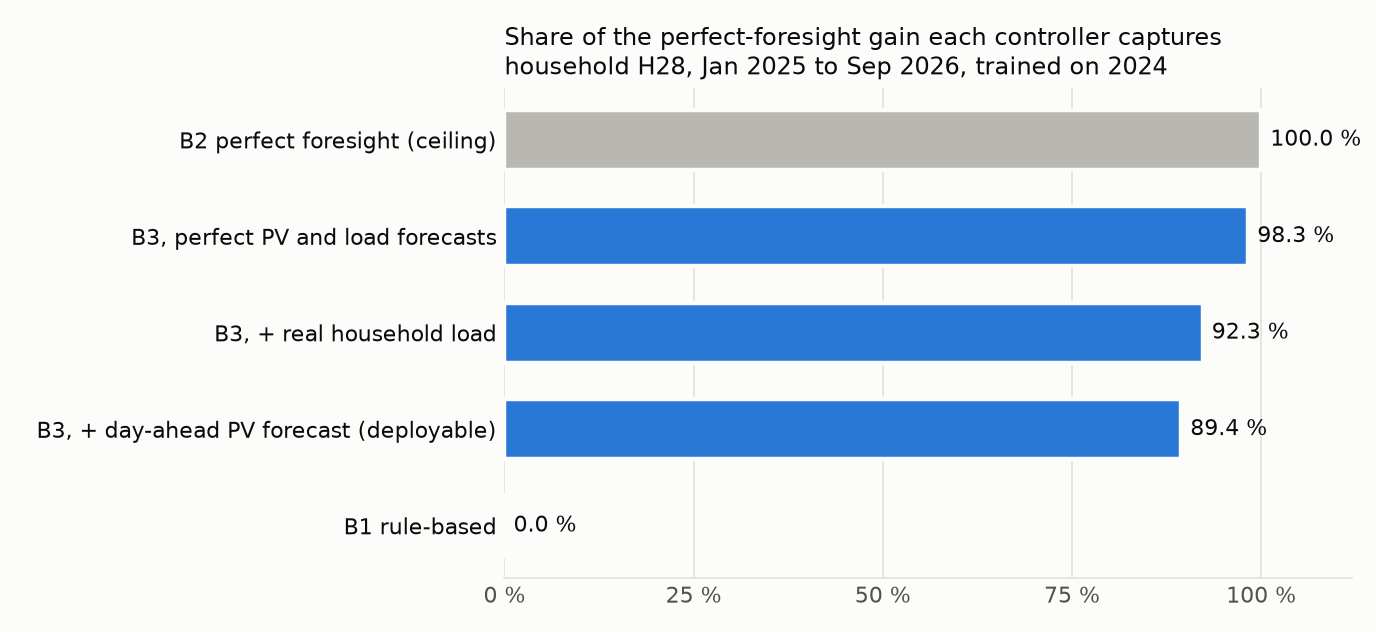
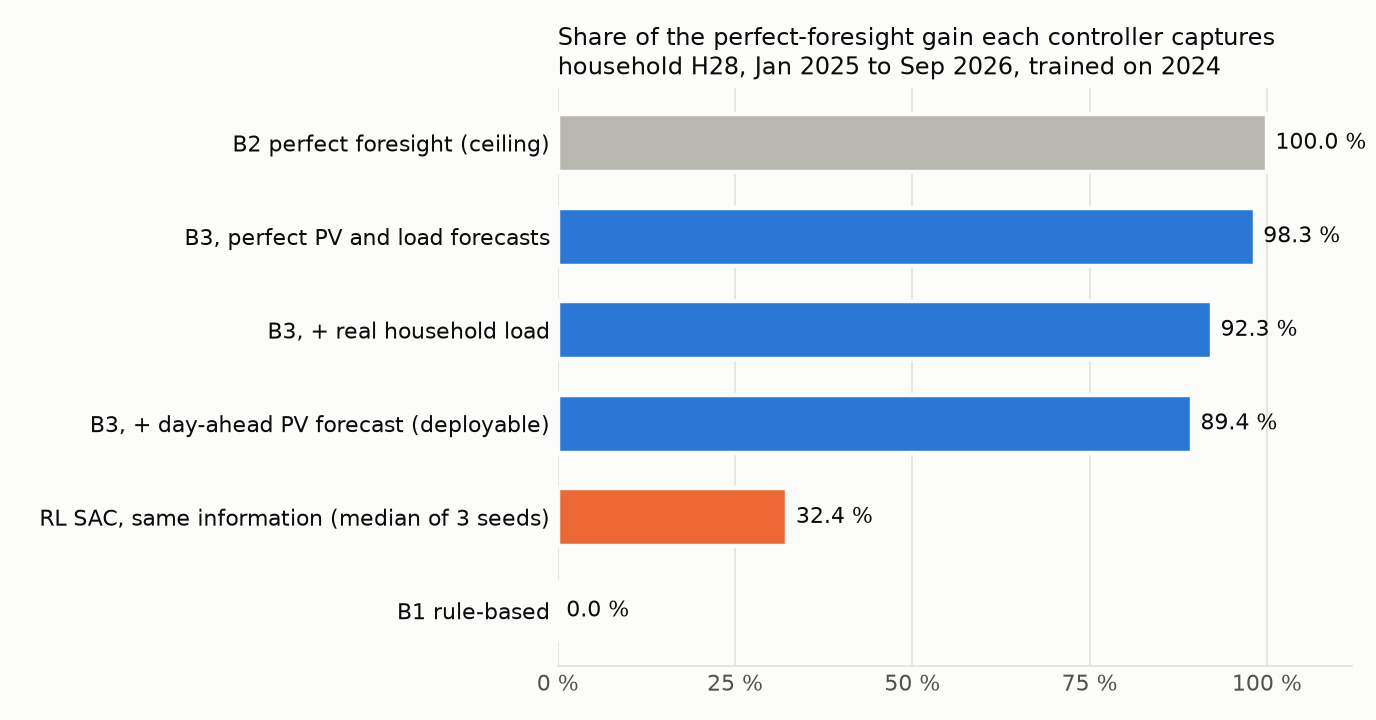
docs(p01): publish the post-fix RL rerun of all four SAC formulations
The RL section was the last part of the benchmark still measured on the
pre-clock-fix replay, so the table compared RL against a B3 from a
different dataset. All four formulations were retrained on the fixed H28
data with the runbook driver (500k steps, 3 seeds each), after the
data gate reproduced the committed B1/B2/B3 exactly.

Headline (rescale + differential) median 32.4 % of the B1 to B2 gap,
seeds 31.7 to 32.4 (pre-fix 27.0 %). Original -7.3 %, rescaling only
-3.4 %, reward only +27.0 %. One pre-fix seed already reached 32.3 %,
so the README does not credit the change to the fix.

The ablations had one seed before; with three, rescaling alone no
longer looks harmful (ranges overlap), so that claim and its
explanation are replaced. The reward effect is about 34 points and
rescaling adds about 5 on top. Benchmark row, payback and ROCE now use
the post-fix PV-only baseline. Only capture_ladder.png is regenerated.
Household sweep and sizing grid stay marked pre-fix.

diff --git a/projects/01-prosumer-pv-bess-mpc-rl/README.md b/projects/01-prosumer-pv-bess-mpc-rl/README.md
@@ -65,10 +65,9 @@ Full benchmark ladder evaluated on household H28 (3,221 kWh/a, 8 kWp PV, 9.37 kW
 | **B1** | Rule-based self-consumption | -324.98 € | -189.80 € | 0.0 % (B1 ref) | 168.9 | 0 | < 1 ms | 17.9 yr | 5.6 % |
 | **B2** | Perfect foresight MILP | -716.68 € | -418.57 € | 100.0 % | 298.2 | 0 | 4.2 s (yr) | 9.2 yr | 10.8 % |
 | **B3** | Deployable rolling MPC (realistic) | -675.27 € | -394.38 € | **89.4 %** | 287.5 | 0 | 5.9 ms ¹ | **9.7 yr** | **10.3 %** |
-| **RL** | Overhauled SAC (rescaled action, diff reward), **before the clock fix** ² | -426.38 € | -249.02 € | **27.0 %** | 264.6 | 0 | 1.2 ms | **14.0 yr** | **7.1 %** |
+| **RL** | Overhauled SAC (rescaled action, diff reward), median of 3 seeds | -451.82 € | -263.88 € | **32.4 %** | 267.8 | 0 | 1.2 ms | **13.7 yr** | **7.3 %** |
 
 ¹ Solve time measured on an idle machine before the clock fix; the rerun CSV shows 19.5 ms because eight jobs shared four cores. The fix does not touch the controller.
-² RL has not been rerun since the HTW clock fix (see the RL section); its row, payback and ROCE are pre-fix, against the pre-fix PV-only baseline of +61.13 EUR/a. Its annual cycles use the same annualisation as the other rows (264.6; 275.4 was printed before).
 
 - **B3 Headroom Recovery:** The deployable rolling MPC captures **89.4 %** of the theoretical perfect-foresight ceiling (350 of 392 EUR headroom over B1) using only published prices, NWP irradiance forecasts, and standard load profiles. Zero constraint violations across all 59,996 quarter-hours.
 - **Economic Return:** Adding a battery under B3 dispatch turns an annual electricity expense of +52.89 EUR/a (PV only) into a net revenue of -394.38 EUR/a, an annual gain of **447.27 EUR/a**. Against the marginal CAPEX of 4,349 EUR (350 EUR/kWh storage plus 190 EUR/kW inverter) that is a **9.7-year simple payback** and **10.3 % return on capital**, against 17.9 years and 5.6 % for the price-blind rule-based operation. Perfect foresight would reach 9.2 years and 10.8 %, so the entire remaining control gap is worth about half a point of return.
@@ -144,14 +143,12 @@ mismatch between PV and load inside the hour, and understates the optimised resu
 
 ### Reinforcement learning: formulation overhaul and diagnostic
 
-> **Before the HTW clock fix, not rerun.** Every RL number in this section was measured with the pre-fix replay (the household's summer load one hour late). Compare it with the pre-fix B3 capture of 87.9 %, not with the 89.4 % above. A rerun of all four formulations is pending.
+The preliminary RL benchmark (Soft Actor-Critic trained on 2024 data and tested over the 20.5-month out-of-sample period) captured a median of -7.3 % of the B1 to B2 gap (-12.7 % to +2.0 % across 3 seeds). A systematic failure mode audit revealed two architectural bottlenecks in standard home energy management RL formulations:
 
-The preliminary RL benchmark (Soft Actor-Critic trained on 2024 data and tested over the 20.5-month out-of-sample period) captured a median of -5.9 % of the B1 to B2 gap (-7.1 % to -1.8 % across 3 seeds). A systematic failure mode audit revealed two architectural bottlenecks in standard home energy management RL formulations:
-
-1. **Dead Gradient from Action Clipping (73 to 80 % clipping rate):** In raw action formulations where the policy outputs a normalized battery power setpoint $a \in [-1, 1]$ scaled to $[-P_{max}, P_{max}]$, the physical state of charge and grid limits frequently prevent the requested action. The safety layer clipped 73 to 80 % of actions. When actions are clipped by an external projection, policy gradient updates produce zero or misdirected gradient steps. This was the obvious suspect; the ablation below shows it was the lesser of the two problems, and that removing the clipping without fixing the reward makes the result worse.
+1. **Dead Gradient from Action Clipping (77 to 82 % clipping rate):** In raw action formulations where the policy outputs a normalized battery power setpoint $a \in [-1, 1]$ scaled to $[-P_{max}, P_{max}]$, the physical state of charge and grid limits frequently prevent the requested action. The safety layer clipped 77 to 82 % of actions. When actions are clipped by an external projection, policy gradient updates produce zero or misdirected gradient steps. This was the obvious suspect; the ablation below shows it was the lesser of the two problems, and that removing the clipping without fixing the reward makes no reliable difference.
 2. **Uncontrollable term in the step reward:** The raw reward was the total step electricity cost:
    $$r_t = - \left( c_{imp}(t) \cdot p_{imp}(t) - c_{exp}(t) \cdot p_{exp}(t) \right) \Delta t$$
-   Most of that cost is set by household load and irradiance, which the battery cannot influence. Measured on the test period, the no-battery step cost has a standard deviation of 4.5 ct while the battery's own contribution under B1 dispatch has 2.9 ct, so the uncontrollable part adds noise of roughly one and a half times the signal the agent is trying to learn from. It does not swamp the signal, but it does make credit assignment harder than it needs to be.
+   Most of that cost is set by household load and irradiance, which the battery cannot influence. Measured on the test period, the no-battery step cost has a standard deviation of 4.4 ct while the battery's own contribution under B1 dispatch has 2.9 ct, so the uncontrollable part adds noise of roughly one and a half times the signal the agent is trying to learn from. It does not swamp the signal, but it does make credit assignment harder than it needs to be.
 
 #### Implemented Solutions
 
@@ -162,7 +159,7 @@ To resolve these defects, two principled formulations were engineered and integr
   $$P_{max, feasible}(t) = \min\left( P_{dis, max}, \frac{(E(t) - E_{min})\eta_{dis}}{\Delta t} \right)$$
   The agent's action $a \in [-1, 1]$ is linearly mapped onto this feasible interval:
   $$p_{bat} = \frac{a + 1}{2} P_{max, feasible} + \frac{1 - a}{2} P_{min, feasible}$$
-  This guarantees that every proposed action is physically executable, reducing action clipping from 80 % to **0 %**.
+  This guarantees that every proposed action is physically executable, reducing action clipping from 77 to 82 % down to **0 %**.
 - **Differential Step Reward (`reward_mode="differential"`):** The reward function is reformulated to isolate the marginal economic value of battery dispatch:
   $$r_t = \text{Cost}_{no-battery}(t) - \text{Cost}_{with-battery}(t)$$
   By subtracting the uncontrollable base load and PV revenue, the policy observes an uncorrupted reward signal directly proportional to its arbitrage and peak-shaving decisions.
@@ -171,30 +168,33 @@ To resolve these defects, two principled formulations were engineered and integr
 
 With these two fixes applied, a 3-seed SAC evaluation was trained on 2024 and tested over the 20.5-month out-of-sample evaluation period (59,996 quarter-hours):
 
-- **Headroom Recovery:** Headroom recovery swung from **-5.9 %** to **+27.0 %** (range 26.2 % to 32.3 % across seeds), capturing an additional 105 EUR of economic value over the price-blind B1 heuristic.
-- **Action Clipping:** Safety layer action clipping dropped from **73-80 % down to exactly 0.0 %** across all seeds.
+- **Headroom Recovery:** Headroom recovery swung from **-7.3 %** to **+32.4 %** (range 31.7 % to 32.4 % across seeds), capturing an additional 127 EUR of economic value over the price-blind B1 heuristic. Before the HTW clock fix the same formulation reached 27.0 % (26.2 % to 32.3 %); one of those seeds already reached today's level, so with three seeds the change cannot be credited to the fix.
+- **Action Clipping:** Safety layer action clipping dropped from **77-82 % down to exactly 0.0 %** across all seeds.
 - **Physical Reliability:** Zero constraint violations across all 180,000 evaluated quarter-hours, verifying the safety layer guarantees.
 
 #### Which of the two changes did the work
 
-Both were introduced together, so each was rerun on its own for one seed
+Both were introduced together, so each was rerun on its own with the same three seeds
 (`reports/rl_ablation_*`). The answer is not the one the clipping statistic suggests:
 
-| Formulation | Clipping | Capture of the B1 to B2 gap |
+| Formulation | Clipping | Capture of the B1 to B2 gap, median (range) of 3 seeds |
 |---|---:|---:|
-| Original: clipped action, total-cost reward | 73 to 80 % | -5.9 % |
-| Feasible action rescaling only | 0 % | **-9.9 %** |
-| Differential reward only | 68 % | **+22.7 %** |
-| Both (reported above) | 0 % | **+27.0 %** |
+| Original: clipped action, total-cost reward | 77 to 82 % | -7.3 % (-12.7 to +2.0) |
+| Feasible action rescaling only | 0 % | **-3.4 %** (-4.7 to +0.7) |
+| Differential reward only | 67 to 71 % | **+27.0 %** (26.4 to 29.9) |
+| Both (reported above) | 0 % | **+32.4 %** (31.7 to 32.4) |
 
 The **reward** is what fixes the agent. Removing the uncontrollable part of the cost is worth
-about 29 points on its own, while action rescaling on its own is slightly harmful: with the
-old reward, a policy whose every request is executed simply acts on a signal it cannot read,
-and the clipping that looked like a defect was partly masking that. Rescaling does pay once
-the reward is informative, adding roughly 4 further points. Reporting clipping alone, as an
-intuitive diagnostic, would have pointed at the wrong fix.
+about 34 points on its own, while action rescaling on its own makes no reliable difference:
+its median is 3.9 points above the original, but the seed ranges overlap and the best seed
+of either captures only 2.0 % of the gap. Rescaling does pay once the
+reward is informative, adding about 5 further points; every seed with both changes beats
+every seed with the reward change alone. Reporting clipping alone, as an intuitive
+diagnostic, would have pointed at the wrong fix. Before the clock fix each ablation had one
+seed, and rescaling alone looked slightly harmful (-9.9 % against -5.9 %); three seeds show
+that difference was within the spread between seeds.
 
-Even so, RL remains far behind the deployable MPC (27 % against 87.9 %), and the honest
+Even so, RL remains far behind the deployable MPC (32 % against 89.4 %), and the honest
 reading is that this formulation is now a sound starting point rather than a competitive
 controller.
 
@@ -281,7 +281,7 @@ What it does not claim: it is not validated for any state or year (the only trut
 
 - The actual weather and the forecast come from the same provider's model family, so the PV forecast problem is slightly easier than against measurements (irradiance nRMSE 0.27 against its own analysis, 0.31 against independent ERA5).
 - The measured households are from 2010 (no heat pumps or electric vehicles) and from one unknown region; they are replayed on the 2024 to 2026 calendar by weekday and local clock.
-- **Fixed 2026-10-26 (c07847e):** `htw.replay_on_calendar` read the HTW labels as MEZ, but they follow legal local time (see the aggregate load section), so every result that uses an HTW household as truth replayed its summer behaviour one hour late against PV and prices. Rerun with the fix: the benchmark table (B0 to B3), the capture ladder and its figure, H31, the quarter-hour study and its figure, the summer example day and its figure, and the load-forecast nRMSE. With the old code the rebuilt dataset reproduced every published number to four decimals, so each change comes from the fix alone (B3 capture 87.9 % to 89.4 %). Still pre-fix and marked as such: the 73-household sweep and its figure, the sizing grid and the RL results.
+- **Fixed 2026-10-26 (c07847e):** `htw.replay_on_calendar` read the HTW labels as MEZ, but they follow legal local time (see the aggregate load section), so every result that uses an HTW household as truth replayed its summer behaviour one hour late against PV and prices. Rerun with the fix: the benchmark table (B0 to B3), the capture ladder and its figure, H31, the quarter-hour study and its figure, the summer example day and its figure, and the load-forecast nRMSE. With the old code the rebuilt dataset reproduced every published number to four decimals, so each change comes from the fix alone (B3 capture 87.9 % to 89.4 %). All four RL formulations were retrained on the fixed data (3 seeds each); retrained policies also vary from seed to seed, so the RL changes are not attributed to the fix alone. Still pre-fix and marked as such: the 73-household sweep and its figure and the sizing grid.
 - The hourly counterfactual uses the hourly mean of the quarter-hour prices; bidding under hourly products would have differed, so the study measures the value of the finer signal, not a market counterfactual.
 - 2026 ends on 17 September.
 

diff --git a/HANDOFF.md b/HANDOFF.md
@@ -464,6 +464,55 @@ All in `projects/01-prosumer-pv-bess-mpc-rl/README.md`:
   73-household sweep. Honest, but not current.
 - Suite at the time of writing: 294 passed, 7 skipped.
 
+## RL rerun done and published (2026-10-30, Claude Code on EIM-MUK)
+
+The runbook above was followed on EIM-MUK in a clean worktree at 69bc045 (the shared tree there
+still holds the Teaching session's uncommitted solver edits, which `rl_eval` imports).
+
+- **Gate:** passed exactly (B1 -324.9827, B2 -716.6751, B3 -675.2715 EUR, 89.4296 %, max
+  difference 0.0). Idle solve time on EIM-MUK 12.3 ms; the README keeps 5.9 ms with its footnote.
+- **Run:** 2026-10-29 11:43 to 2026-10-30 13:35, 25.9 h, no failure; 500,000 steps, 3 seeds,
+  3 workers per formulation, torch 2.14.1 CPU; 370 to 400 min per formulation (the personal
+  laptop needs about a quarter of that). Order: headline first, so an interrupted run kept it.
+- **Published** into the four `reports/` folders of the runbook table (`rl_ablation_clip_net_cost`
+  is new) and `docs/figures/capture_ladder.png` regenerated with its RL bar (only that figure;
+  `make_all` would also rewrite the unchanged sweep and quarter-hour PNGs). Trained models stay
+  gitignored on EIM-MUK under `data/processed/rl_models_rerun/`.
+
+| Formulation | Pre-fix | Post-fix, median of 3 | Seeds | Clipping |
+|---|---:|---:|---|---:|
+| clip + net_cost (original) | -5.9 % (3 seeds) | -7.3 % | +2.0, -12.7, -7.3 | 77 to 82 % |
+| rescale + net_cost | -9.9 % (1 seed) | -3.4 % | +0.7, -4.7, -3.4 | 0 % |
+| clip + differential | +22.7 % (1 seed) | +27.0 % | 26.4, 27.0, 29.9 | 67 to 71 % |
+| rescale + differential (headline) | +27.0 % | **+32.4 %** | 31.7, 32.4, 32.4 | 0 % |
+
+- Benchmark row (median seed 1): -451.82 EUR, -263.88 EUR/a, 267.8 cycles/a, payback 13.7 yr,
+  ROCE 7.3 % against B0 +52.89 EUR/a. 0 violations in all 12 runs (179,988 quarter-hours per
+  formulation). RL is 127 EUR better than B1 over the 20.5 months.
+- **Claim corrected:** the README said action rescaling alone was "slightly harmful" (-9.9 against
+  -5.9, one seed against three). With three seeds each the ranges overlap; it now says rescaling
+  alone makes no reliable difference, and the "clipping was masking it" explanation is gone. The
+  reward effect is about 34 points (was 29), rescaling on top about 5 (was 4), and every
+  both-changes seed beats every reward-only seed.
+- **Not credited to the fix:** the headline moved 27.0 to 32.4 %, but one pre-fix seed already
+  reached 32.3 %; the README says so.
+- The reward-noise sentence recomputed on the fixed data: no-battery step cost std 4.45 ct
+  (pre-fix 4.49, which reproduced the old 4.5), battery part under B1 2.86 ct.
+- The number script used for every RL figure in the README is `rl_readme_numbers.py`
+  (EIM-MUK, `projects/01-*/data/claude_session_2026-10-26/scripts/`, gitignored); it reproduced
+  every pre-fix RL number from the old CSVs before it was run on the new ones.
+
+### Still to do, on the personal laptop
+1. Household sweep: delete `reports/household_sweep.csv` first (it appends), then
+   `python -m prosumer.cli household-sweep --workers <cores>` from the P01 folder with
+   `PYTHONPATH=src`; then `python -c "import matplotlib; matplotlib.use('Agg'); from pathlib import Path; from prosumer.reporting.figures import household_sweep; household_sweep(Path('reports'), Path('docs/figures'))"`.
+2. Sizing grid: `python -m prosumer.cli sizing --workers <cores>` (needs the H28 dataset of
+   the runbook's step 1).
+3. README: the household-sweep paragraph and the sizing section, both marked "Before the clock
+   fix", plus the limitations bullet; remove the markers; check the numbers against the CSVs.
+4. Owner decision: `showcase.html` still quotes RL 27.0 % (lines 1439, 1499 to 1500, 1552,
+   3032, 3039) and the old ladder (56 %, line 2866).
+
 ## ▶ Next Concrete Actions (in order)
 
 1. **Projects 04 and 06 Ergonomics:** Review and refine documentation, docstrings, and CLI arguments for Project 04 (Renewable Energy Community) and Project 06 (Probabilistic Forecast-to-Bid).
@@ -550,3 +599,4 @@ reaches a figure, a README or the showcase unless it traces to a committed CSV.
 - 2026-10-27 · Claude Code · EIM-MUK: HTW clock fixed in c07847e (replay on the households' own clock; regression tests fail on the old code). Rebuilt dataset reproduced the published numbers exactly with the old code; with the fix H28 B3 capture is 89.43 % (was 87.91), H31 86.10 %. Remaining reruns (sweep, sizing, RL, figures) running on EIM-MUK. README battery configuration corrected to 9.37 kWh / 5.63 kW. Handoff for the personal laptop written above; pushed to GitHub on Murat's request.
 - 2026-10-27 · Claude Code · EIM-MUK: rerun stopped on request after ten hours. Committed locally (not pushed): post-fix H28, H31 and quarter-hour results, three regenerated figures, README numbers (B3 89.4 %, B0 +52.89 EUR/a); household sweep, sizing and RL marked pre-fix with the steps to finish them in the status block above.
 - 2026-10-29 · Claude Code · Fehlgeschlagenen Test behoben: nicht der Test war falsch, sondern der Loader. pandas schreibt die kürzeste exakte float64-Darstellung, liest sie aber mit einem ungenauen Parser zurück (14.399999999999995 wurde 14.399999999999997); float_precision="round_trip" in load_model und load_state_normals. 294 passed, 7 skipped. Danach die RL-Wiederholung vorbereitet: H28-Datensatz neu gebaut und das Gate bestanden (B1 -324,9827 / B2 -716,6751 / B3 -675,2715 / 89,4296 %, maximale Abweichung 0,0 gegen den eingecheckten Post-Fix-Bericht). Treiber scripts/rerun_rl_formulations.py committet, staged nach data/processed/rl_rerun_stage und veröffentlicht nichts selbst. Lauf nicht gestartet: Murat führt ihn auf dem Firmenrechner aus, Runbook in diesem HANDOFF unter "Runbook: rerun the four SAC formulations".
+- 2026-10-30 · Claude Code · EIM-MUK: RL rerun of all four SAC formulations finished (25.9 h, 3 seeds each, gate exact) and published: headline 32.4 % (pre-fix 27.0), original -7.3 %, rescaling only -3.4 %, reward only +27.0 %. The README claim that rescaling alone is harmful did not survive three seeds and was corrected. Household sweep and sizing grid stay pre-fix, to be rerun on the personal laptop.
